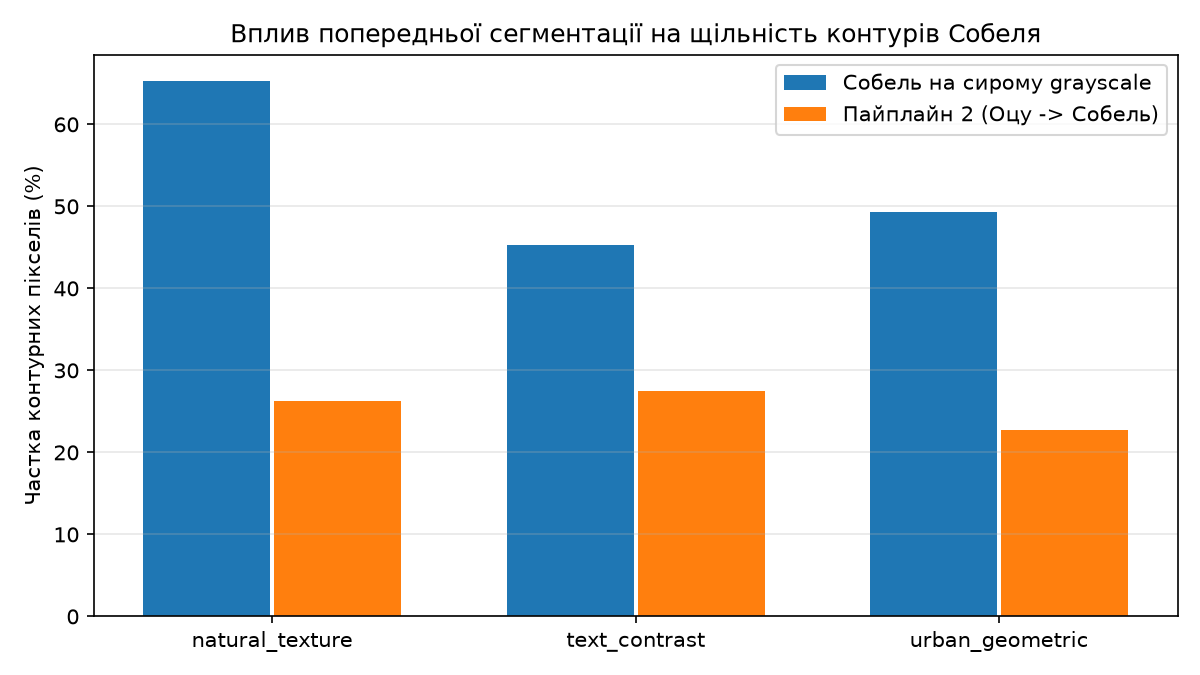
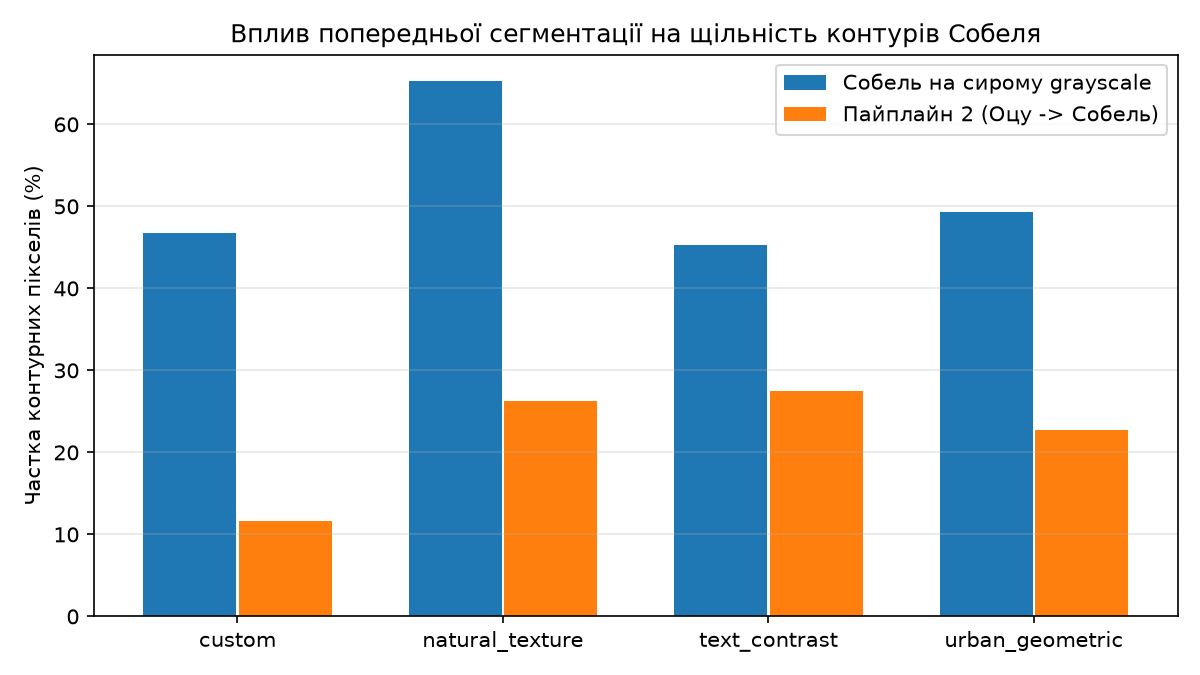
Фінальне оновлення та тести

diff --git a/META-USAGE.md b/META-USAGE.md
@@ -4,13 +4,11 @@
 
 ## 1. Застосовані інструменти ШІ
 - **AI-асистент розробки:** Antigravity (модель Gemini).
-- **Призначення використання:** структурування репозиторія, рефакторинг та перенесення власного коду з попередніх лабораторних робіт (`CGV_4.py`, `CGV_5.py`, `CGV_6.py`), генерація шаблонної інфраструктури (CLI-парсер, експорт у JSON/CSV, побудова графіків Matplotlib, модульні тести `unittest`), оформлення документації та чернеток аналітичного звіту.
+- **Призначення використання:** рефакторинг та перенесення власного коду з попередніх лабораторних робіт (`CGV_4.py`, `CGV_5.py`, `CGV_6.py`), оформлення документації та чернеток аналітичного звіту.
 
-## 2. Ключові запити (Prompts), передані агенту
+## 2. Ключові запити, передані агенту
 1. Проаналізувати попередні лабораторні роботи (`CGV_4.py`, `CGV_5.py`, `CGV_6.py`) та перенести базові алгоритми (`to_grayscale`, `add_salt_and_pepper_noise`, `calc_mse`, порогова бінаризація) у модульну структуру `src/` без використання важких ML/DL-бібліотек і вбудованих фільтрів OpenCV/SciPy.
-2. Реалізувати вручну два конвеєри обробки (Пайплайн 1: перетворення у сірий, зашумлення з фіксованим `seed`, ручна фільтрація та текстурний аналіз GLCM/LBP; Пайплайн 2: перетворення у сірий, порогова сегментація та оператор Собеля) із параметризацією через `configs/config.json`.
-3. Написати короткі модульні тести на еталонних матрицях $3\times 3$ / $4\times 4$ / $5\times 5$ та перевірки крайніх випадків (монохромні зображення, пошкоджені файли, розмір $1\times 1$).
-4. Налаштувати історію Git-комітів із гілками `main`, `feature/pipelines`, `feature/tests-and-report` та підготувати науково-технічний звіт у `STEM_Project_Report.md`.
+2. Написати короткі модульні тести на еталонних матрицях $3\times 3$ / $4\times 4$ / $5\times 5$ та перевірки крайніх випадків (монохромні зображення, пошкоджені файли, розмір $1\times 1$).
 
 ## 3. Розподіл між власним кодом здобувача та згенерованими фрагментами
 
@@ -19,7 +17,6 @@
 | `src/utils.py` (`to_grayscale`, `add_salt_and_pepper_noise`, `add_gaussian_noise`, `calc_mse`) | Адаптація та рефакторинг на базі власних файлів `CGV_4.py`, `CGV_5.py`, `CGV_6.py` | Перевірено формули яскравості, MSE/PSNR, інтегральне обчислення локального SSIM та квантування GLCM |
 | `src/filters.py` (`manual_convolve2d`, `manual_gaussian_filter`, `manual_median_filter`, `manual_sobel_filter`, `compute_lbp_map`) | Ручна реалізація узагальненого Гаусового, медіанного фільтрів, оператора Собеля та LBP за допомогою ШІ на основі логіки згортки з `CGV_5.py` | Вручну перевірено матриці ядер $G_x, G_y$, формулу 2D ядра Гауса, порядок бітів LBP та роботу крайового падінгу `edge` |
 | `src/segmentation.py` (`global_threshold`, `otsu_threshold`) | Портування глобального порога з `CGV_4.py` та генерація реалізації методу Оцу | Перевірено формулу максимізації міжкласової дисперсії $\sigma_b^2(t)$ |
-| `src/pipelines.py`, `main.py`, `configs/config.json` | Згенеровано інфраструктуру запуску, серіалізацію JSON/CSV та побудову графіків Matplotlib | Запущено повний прогін на 30 тестових зображеннях, перевірено конфігурованість через CLI |
 | `tests/test_methods.py` | Згенеровано набір модульних тестів `unittest` | Вручну перераховано контрольні приклади $3\times 3$ (яскравість 141, медіана 6, Собель 80, LBP 14) |
 | `STEM_Project_Report.md`, `README.md` | Складено структуру звіту, опис методів, таблиці та огляд джерел | Перевірено відповідність усіх числових значень у таблицях фактичному виводу `outputs/metrics_log.json` |
 
